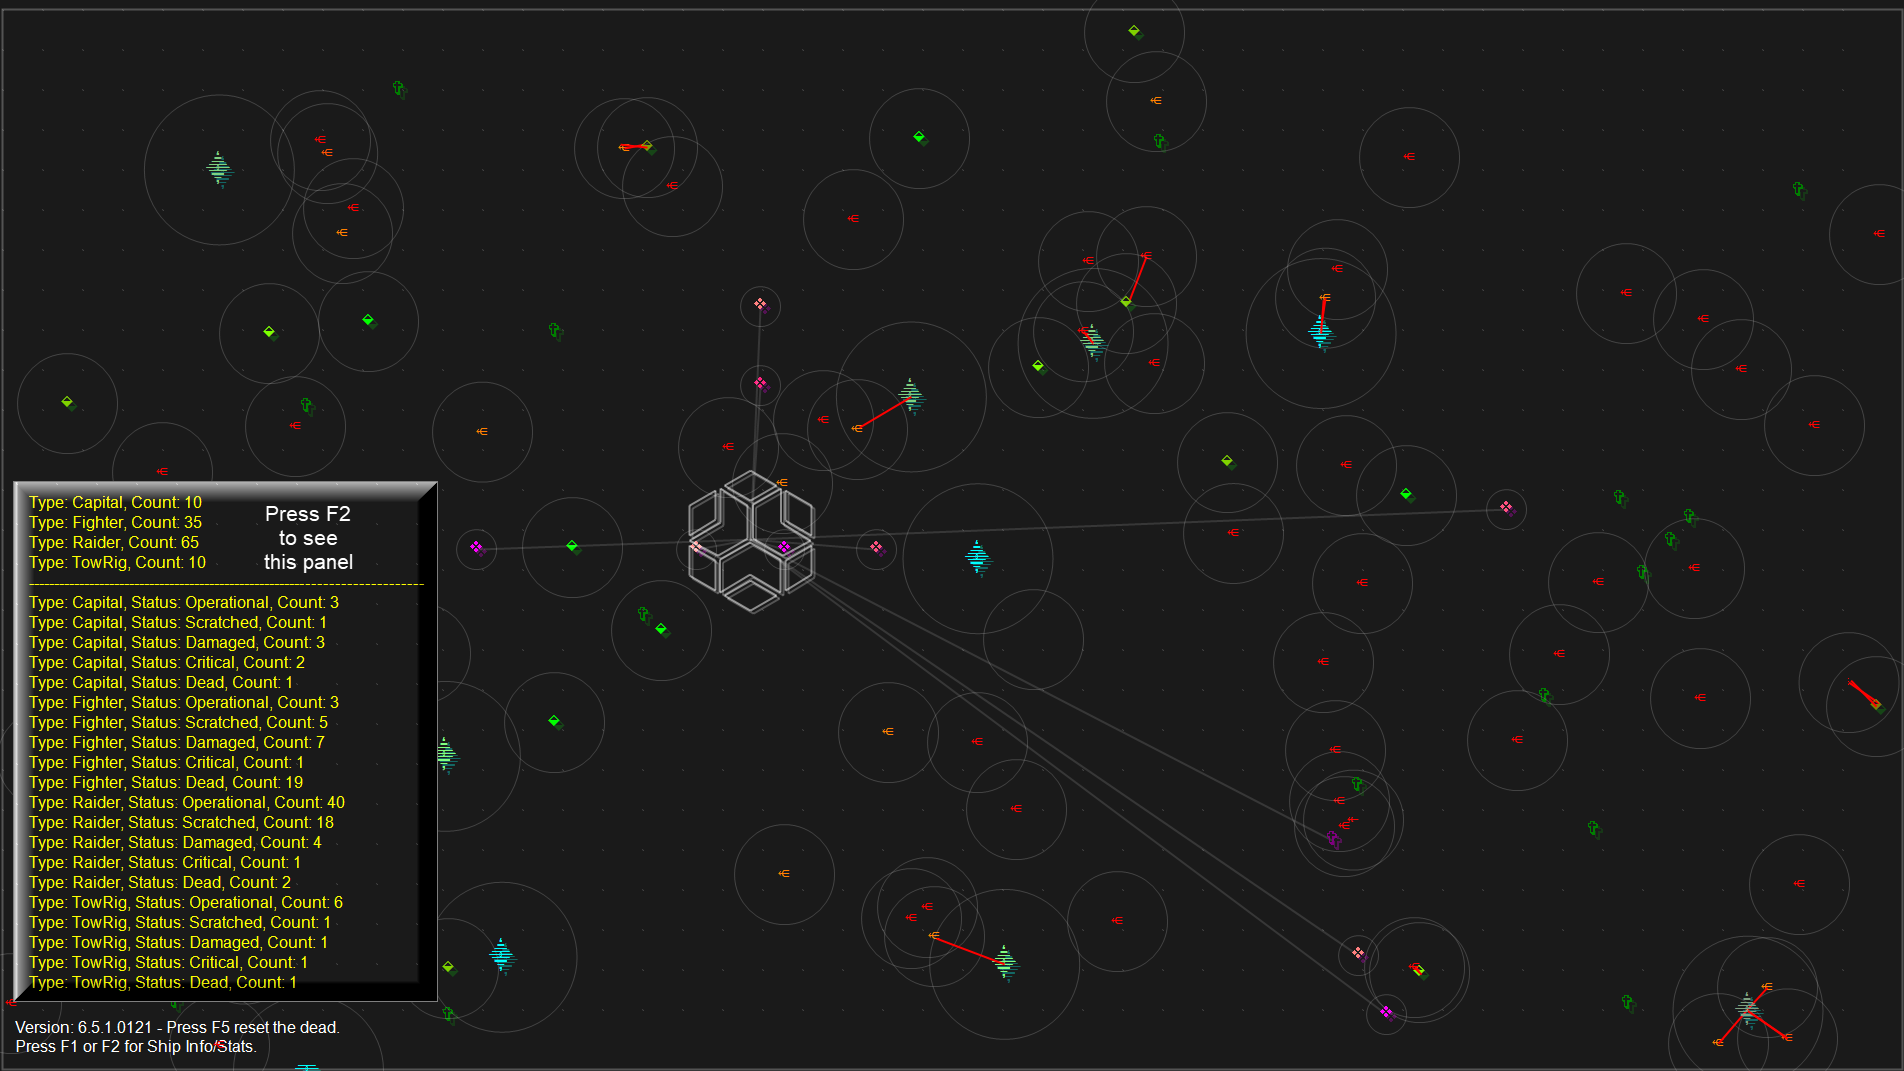
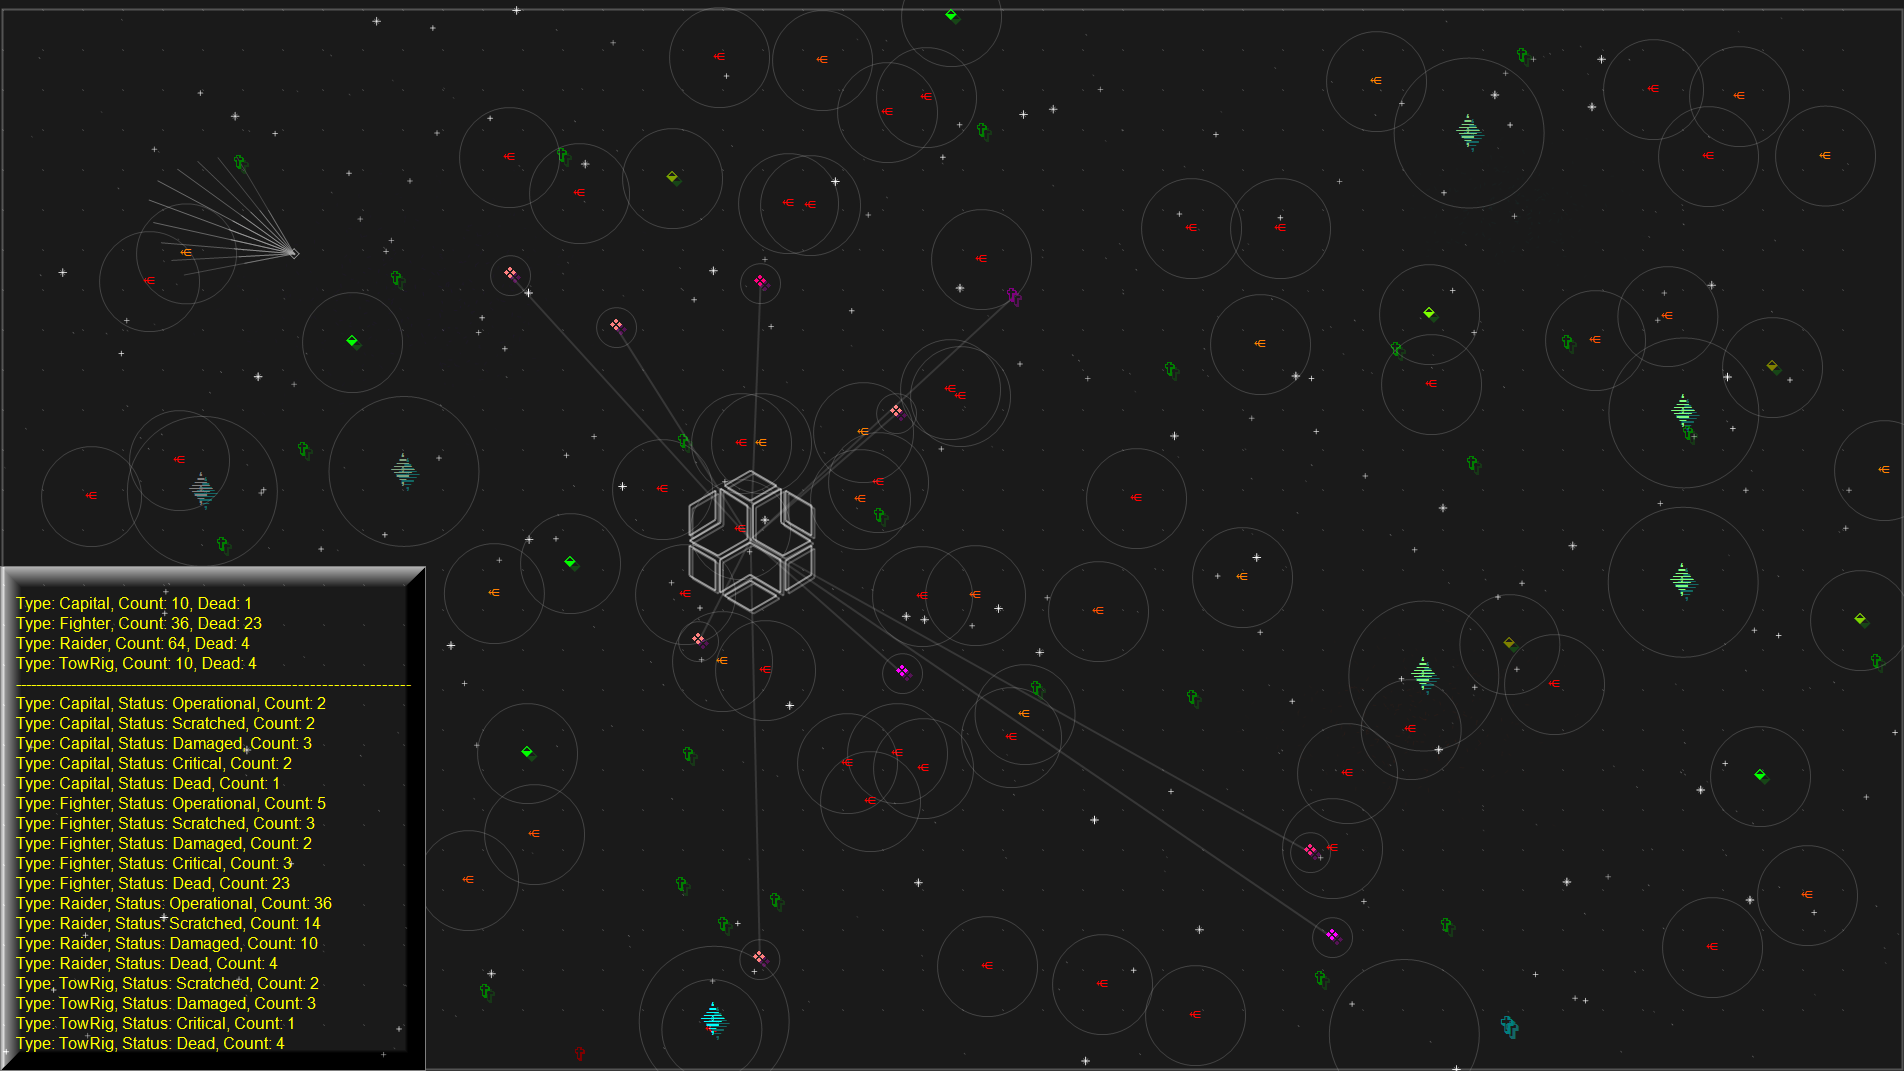
Updated the README

diff --git a/README.md b/README.md
@@ -24,13 +24,13 @@ A pure **.NET 8 / WinForms** battlefield simulation that demonstrates how to bui
 
 ## What It Is
 
-**DynamicTimeDraw** has no interaction except to look at stats.  It spawns a configurable fleet of spaceships dynamically on a dark grid and lets them fight autonomously. Ships move randomly across the canvas, detect enemies inside their *hitbox radius*, fire lasers, take damage, and either die or get towed home by a healer. The entire simulation runs with no game engine or graphics framework — it is a showcase of raw WinForms `OnPaint` / `Timer`-driven rendering.
+**DynamicTimeDraw** has no interaction except to look at stats.  It spawns a configurable fleet of spaceships dynamically on a dark grid with stars, a flying comet, and lets them fight autonomously. Ships move randomly across the canvas, detect enemies inside their *hitbox radius*, fire lasers, take damage, and either die or get revived by a healer, if friendly. The entire simulation runs with no game engine or graphics framework — it is a showcase of raw WinForms `OnPaint` / `Timer`-driven rendering with zero jumpiness or lag.
 
 ![Battleground full-screen view](imgs/full_screen_view.png)
 
-> Can run by itself or with project in Visual Studio.  Press (F5) at any time to respawn all the dead.  This will happen automatically within 30 seconds of all healers or all raiders being destroyed, but you can also trigger it manually with F5. The F1 and F2 keys show different levels of ship info overlays.
+> Can run by itself or with project in Visual Studio.  Press (F5) at any time to revive all the dead.  This will happen automatically within 30 seconds of all healers or all raiders being destroyed, but you can also trigger it manually with F5. The F1 and F2 keys show different levels of ship info overlays.
 
-> AI keeps telling me to do things differently in some places, but any time it's done, it destorys the simulation and rendering doesn't work anymore.  So I have to keep it the way it is, even if it's not how I would do it if I were writing it from scratch.  It's a bit of a mess as there are things I need to break up into other classes/methods, but it works, it's fast, and that's the point of the project — to show how to build a real-time simulation with pure `System.Drawing` without any game engine or rendering framework.
+> AI keeps telling me to do things differently in some places, but any time it's done, it destroys the simulation and rendering doesn't work anymore.  So I have to keep it the way it is, even if it's not how I would do it if I were writing it from scratch.  It's a bit of a mess as there are things I need to break up into other classes/methods, but it works, it's fast, and that's the point of the project — to show how to build a real-time simulation with pure `System.Drawing` without any game engine or rendering framework.
 
 ---
 
@@ -38,15 +38,15 @@ A pure **.NET 8 / WinForms** battlefield simulation that demonstrates how to bui
 
 - **Flawless and Pure `System.Drawing` rendering** — no Unity, MonoGame, SkiaSharp, or similar.
 - **100+ ship fleet** — configurable via constants in `BgPlatform.cs`.
-- **4 active ship classes** — TowRig/Healer, Capital Ship, Fighter, Raider — each with unique stats and behaviour.
+- **4 active ship classes** — TowRig/Healer, Capital Ship, Fighter, Raider — each with unique stats and behavior.
 - **Per-ship independent threads** — every ship runs its AI loop on its own background thread.
 - **Thread-safe shared state** — a `ConcurrentDictionary` tracks every ship's current position and health, readable by all threads simultaneously.
 - **Conflict-free tow assignments** — a second thread-safe dictionary ensures only one TowRig claims a dead ally at a time.
-- **Dynamic colour health indicator** — ship colour shifts as shields drop (green → yellow → orange → red).
+- **Dynamic colour health indicator** — ship colour shifts as shields drop (green → yellow → orange → red → green tombstone).
 - **Laser and tow-beam rendering** — red laser lines for attacks, blue tow-beam lines for recovery.
 - **F-key HUD overlays** — press F1/F2 to view live ship stats; press F5 to instantly revive all dead ships.
-- **Unicode ship symbols** — each class is rendered as a distinct Unicode glyph using the Arial font.
-- **Transparent-background mode** — toggle `_transparentBG` to make the grid background transparent.
+- **Unicode ship symbols** — each class is rendered as a distinct Unicode glyph using the Arial font.  Found in [DynamicTimeDraw\models\ships\ShipStats.cs](DynamicTimeDraw/models/ships/ShipStats.cs).
+- **Transparent-background mode** — Mouse over the top left title and click to toggle `_transparentBG` and make the grid background transparent and click through.
 
 ---
 
@@ -57,11 +57,11 @@ All values are defined in `DynamicTimeDraw/models/ships/ShipStats.cs`.
 | Ship Type | Shields | Power | Speed | Hitbox | Recovery Priority | Notes |
 |-----------|---------|-------|-------|--------|-------------------|-------|
 | **TowRig** (Healer) | 400 | 1 | 2.0 | 20 px | **Critical** (1st) | Smallest hitbox, fastest; sole purpose is recovery |
-| **Capital Ship** | 800 | 8 | 0.3 | 75 px | **High** (2nd) | Slowest, highest durability; half the power of a Raider |
+| **Capital Ship** | 800 | 8 | 0.3 | 75 px | **High** (2nd) | Slowest, Twice Raider shields, but half their power |
 | **Fighter** | 200 | 4 | 1.0 | 50 px | **Low** (3rd) | Balanced grunt unit; home-team protector |
-| **Raider** (Enemy) | 400 | 16 | 1.0 | 50 px | **None** | Twice Capital Ship power; **never revived** when destroyed |
-| *Bomber* | 400 | 6 | 0.5 | 60 px | Medium | *Reserved — not currently deployed* |
-| *Transport* | 2000 | 0 | 2.0 | 40 px | Low | *Reserved — not currently deployed* |
+| **Raider** (Enemy) | 400 | **16** | 1.0 | 50 px | **None** | Twice Capital Ship power; **never revived** when destroyed |
+| *Bomber* | 400 | 6 | 0.5 | 60 px | **Medium** | *Reserved — not currently deployed* |
+| *Transport* | 2000 | 0 | 2.0 | 40 px | **Low** | *Reserved — not currently deployed* |
 
 > **Raider vs Capital comparison:** Raiders carry twice the firepower (16 vs 8) but only half the shields (400 vs 800), making them glass-cannon enemies.
 
@@ -77,7 +77,7 @@ const int _capShipCount  = _flierCount / 10;  // 10 Capital Ships
 const int _towRigCount   = _flierCount / 10;  // 10 TowRigs / Healers
 ```
 
-The `_flierCount` is split so that **Raiders outnumber Fighters by roughly 3:1**, creating strong enemy pressure that the 10 Healers and 10 Capital Ships must balance. The result is a tight, fluctuating battle where neither side easily dominates.
+The `_flierCount` is split so that **Raiders outnumber Fighters** by roughly 3:1**, creating strong enemy pressure that the 10 Healers and 10 Capital Ships must balance. The result is a tight, fluctuating battle where neither side easily dominates.  The exact numbers can be tweaked by changing the constants, but the default configuration is designed to create a dynamic and engaging simulation.  Currently a fight last around 5-10 minutes before one side is completely wiped out, at which point the (30sec) auto revive is used or F5 key can be used to revive all the dead and start a new battle.
 
 | Group | Default Count |
 |-------|---------------|
@@ -91,7 +91,7 @@ The `_flierCount` is split so that **Raiders outnumber Fighters by roughly 3:1**
 
 ## Revive / Recovery System
 
-When a home-team ship's shields reach zero it enters the `Dead` state. TowRigs scan for dead allies and tow them back to HomeBase for revival. The order in which they are prioritised is driven by the `RecoverOrder` enum:
+When a home-team ship's shields reach zero it enters the `Dead` state. TowRigs scan for dead allies and tow them back to HomeBase for revival. The order in which they are prioritized is driven by the `RecoverOrder` enum:
 
 | Priority | Value | Ship |
 |----------|-------|------|